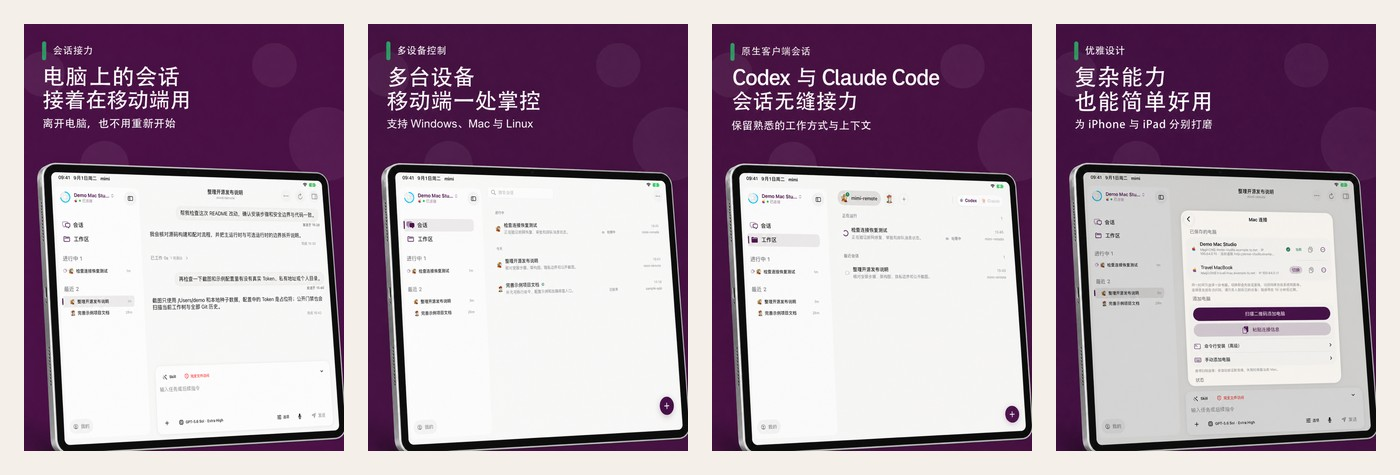
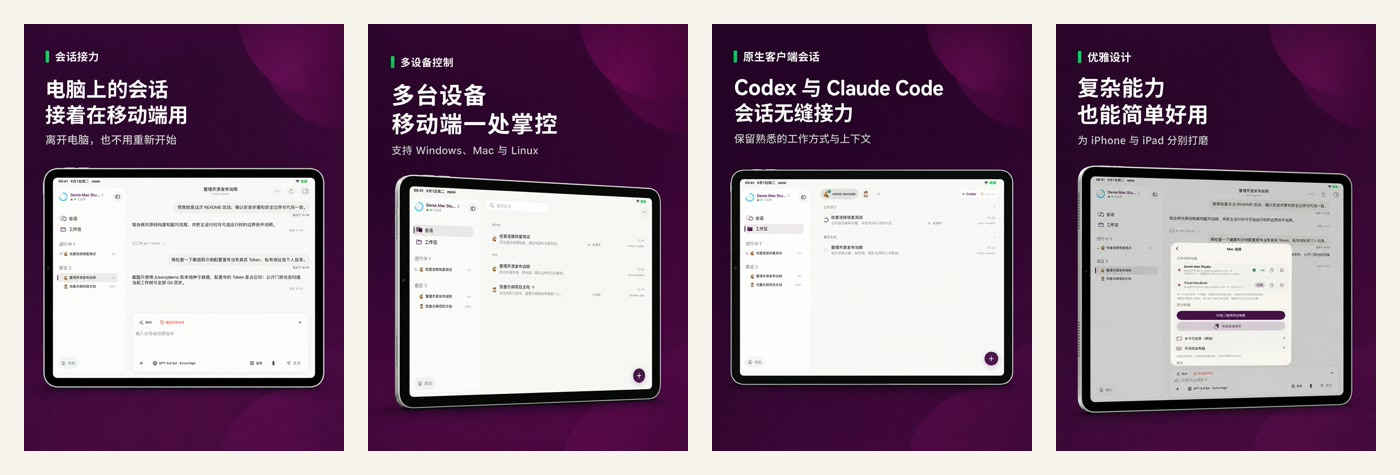
MIM-227 refresh website promotion assets

diff --git a/web/site.js b/web/site.js
@@ -83,7 +83,8 @@
 
       "alt.ipadWorkspace": "Mimi Remote's workspace on iPad: a sidebar of sessions and workspaces beside project tabs and recent conversations.",
       "alt.iphoneWorkspace": "The same workspace on iPhone, as a single column with a compact tab bar.",
-      "alt.promoOverview": "Mimi Remote promotional overview showing conversations, live session progress, and control of development computers from iPhone.",
+      "alt.promoIphone": "Four Mimi Remote promotional screens on orange iPhones: session handoff, multi-device control, Codex and Claude Code continuity, and elegant design.",
+      "alt.promoIpad": "Four Mimi Remote promotional screens on silver iPads: session handoff, multi-device control, Codex and Claude Code continuity, and elegant design.",
       "alt.ipadSessions": "The session list on iPad, grouped by day, with the sidebar showing just-finished and recent work.",
       "alt.iphoneSessions": "The same session list on iPhone, one column, with a floating tab bar.",
       "alt.cropSessions": "A close crop of the session list: a day heading with several conversations beneath it.",
@@ -158,7 +159,8 @@
 
       "alt.ipadWorkspace": "Mimi Remote 在 iPad 上的工作区：侧栏是会话与工作区，右侧是项目标签和最近对话。",
       "alt.iphoneWorkspace": "同一个工作区在 iPhone 上的样子：单列布局，底部是紧凑的标签栏。",
-      "alt.promoOverview": "Mimi Remote 推广总览：在 iPhone 上继续对话、跟进会话进度并控制自己的开发电脑。",
+      "alt.promoIphone": "Mimi Remote 四张橙色 iPhone 推广图：会话接力、多设备控制、Codex 与 Claude Code 无缝接力和优雅设计。",
+      "alt.promoIpad": "Mimi Remote 四张银色 iPad 推广图：会话接力、多设备控制、Codex 与 Claude Code 无缝接力和优雅设计。",
       "alt.ipadSessions": "iPad 上的会话列表，按天分组，侧栏显示刚完成和最近的任务。",
       "alt.iphoneSessions": "同一份会话列表在 iPhone 上：单列，底部悬浮标签栏。",
       "alt.cropSessions": "会话列表的局部特写：一个日期分组下面跟着若干条对话。",
@@ -213,9 +215,6 @@
       var shot = img.getAttribute("data-shot");
       var override = SHOT_LANG[shot] && SHOT_LANG[shot][lang];
       img.setAttribute("src", "./assets/" + (override || shot) + "-" + theme + ".png");
-    });
-    each("[data-promo-shot]", function (img) {
-      img.setAttribute("src", "./assets/promo-overview-" + lang + ".png");
     });
   }
 

diff --git a/web/index.html b/web/index.html
@@ -10,7 +10,7 @@
   <meta property="og:type" content="website" />
   <meta property="og:title" content="Mimi Remote — Your agents. Within reach." />
   <meta property="og:description" content="A native iPhone and iPad client for Codex and Claude Code, with open-source hosts for macOS and Windows. Android is coming soon." />
-  <meta property="og:image" content="./assets/promo-overview-en.png" />
+  <meta property="og:image" content="./assets/promo-iphone-current.jpg" />
   <meta name="twitter:card" content="summary_large_image" />
 
   <link rel="icon" type="image/png" href="./assets/app-icon-small.png" />
@@ -103,9 +103,12 @@
 
         <figure class="stage stage--promo reveal reveal--slow">
           <span class="stage__glow" aria-hidden="true"></span>
-          <img class="stage__promo" data-promo-shot src="./assets/promo-overview-en.png" width="2400" height="1400"
-               fetchpriority="high" data-i18n-alt="alt.promoOverview"
-               alt="Mimi Remote promotional overview showing conversations, live session progress, and control of development computers from iPhone." />
+          <img class="stage__promo" src="./assets/promo-iphone-current.jpg" width="1320" height="697"
+               fetchpriority="high" data-i18n-alt="alt.promoIphone"
+               alt="Four Mimi Remote promotional screens on orange iPhones: session handoff, multi-device control, Codex and Claude Code continuity, and elegant design." />
+          <img class="stage__promo" src="./assets/promo-ipad-current.jpg" width="1400" height="475"
+               data-i18n-alt="alt.promoIpad"
+               alt="Four Mimi Remote promotional screens on silver iPads: session handoff, multi-device control, Codex and Claude Code continuity, and elegant design." />
         </figure>
       </div>
     </section>

diff --git a/web/styles.css b/web/styles.css
@@ -356,7 +356,11 @@ a   { color: inherit; }
 
 /* device stage */
 .stage { position: relative; margin: 0; padding-bottom: 7%; isolation: isolate; }
-.stage--promo { padding-bottom: 0; }
+.stage--promo {
+  display: grid;
+  gap: clamp(12px, 1.8vw, 20px);
+  padding-bottom: 0;
+}
 .stage__promo {
   display: block;
   width: 100%;

diff --git a/README.md b/README.md
@@ -32,11 +32,11 @@
 </p>
 
 <p align="center">
-  <img src="web/assets/promo-iphone-current.jpg" alt="Four current Mimi Remote promotional screens on an orange iPhone: session handoff, multi-device control, Codex and Claude Code continuity, and native mobile design" width="100%" />
+  <img src="web/assets/promo-iphone-current.jpg" alt="Four current Mimi Remote promotional screens on orange iPhones: session handoff, multi-device control, Codex and Claude Code continuity, and elegant design" width="100%" />
 </p>
 
 <p align="center">
-  <img src="web/assets/promo-ipad-current.jpg" alt="Four current Mimi Remote promotional screens on a silver iPad: session handoff, multi-device control, Codex and Claude Code continuity, and native tablet design" width="100%" />
+  <img src="web/assets/promo-ipad-current.jpg" alt="Four current Mimi Remote promotional screens on silver iPads: session handoff, multi-device control, Codex and Claude Code continuity, and elegant design" width="100%" />
 </p>
 
 <p align="center">
